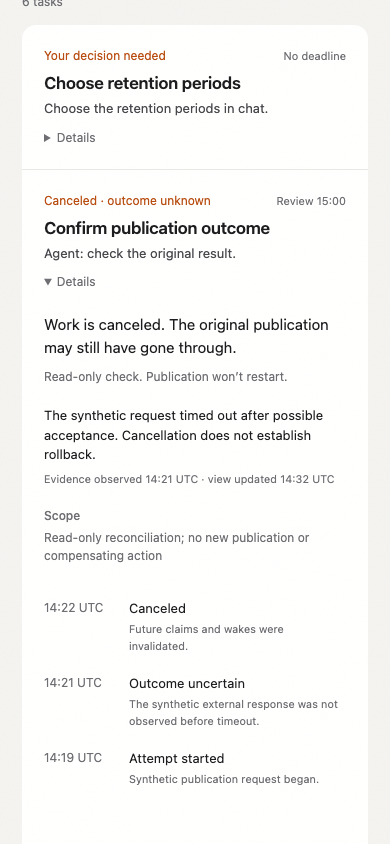
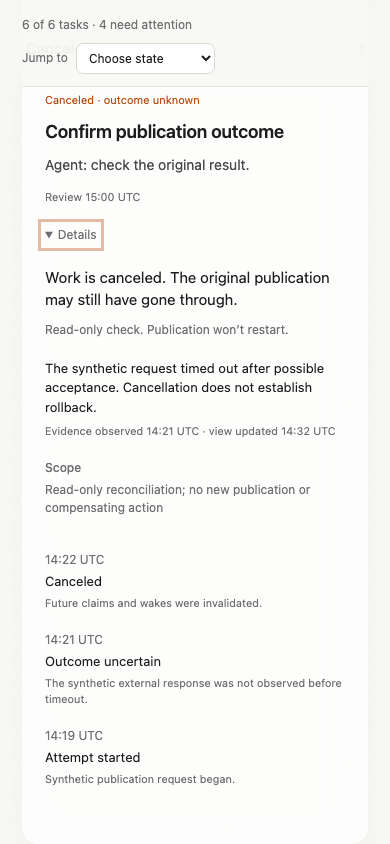
design: add textured white kanban preview

diff --git a/mockups/styles.css b/mockups/styles.css
@@ -1,6 +1,30 @@
 :root{color-scheme:light;--ink:#1d1d1f;--muted:#6e6e73;--accent:#b84e12;font-family:-apple-system,BlinkMacSystemFont,"Helvetica Neue",sans-serif}
 *{box-sizing:border-box}body{margin:0;background:#f5f5f7;color:var(--ink);font-size:15px;line-height:1.5}button,input{font:inherit}button{cursor:pointer;border:0;color:inherit}button:focus-visible,input:focus-visible,summary:focus-visible{outline:3px solid #b84e1260;outline-offset:4px}header{max-width:1160px;margin:auto;padding:34px 40px 20px;display:flex;align-items:center;gap:12px}.brand{font-size:21px;font-weight:650;letter-spacing:-.8px}.prototype-label{font-size:12px;color:var(--muted)}.freshness{margin-left:auto;font-size:12px;color:var(--muted)}.shell{max-width:1160px;margin:0 auto;padding:30px 40px 60px}.intro{margin-bottom:30px}.intro h1{font-size:38px;font-weight:600;letter-spacing:-1.5px;margin:0 0 5px}.intro p{margin:0;color:var(--muted)}.toolbar{display:flex;align-items:center;gap:16px;margin-bottom:24px;flex-wrap:wrap}.segments{display:flex;background:#e9e9ee;padding:3px;border-radius:10px;gap:2px}.segments button{background:transparent;padding:7px 15px;border-radius:8px;font-size:13px}.segments button[aria-pressed=true]{background:white;box-shadow:0 1px 4px #00000012}.search{margin-left:auto;width:180px;border:0;border-bottom:1px solid #d2d2d7;padding:7px 0;background:transparent;font-size:13px}.reset{padding:7px 0;background:transparent;color:var(--muted);font-size:13px}.layout{display:grid;grid-template-columns:1fr 1fr;gap:40px;align-items:start}.work-index{background:white;border-radius:18px;overflow:hidden}.list-heading{padding:20px 24px 10px;color:var(--muted);font-size:12px}.task-list{list-style:none;margin:0;padding:0 12px 12px}.task-row button{width:100%;padding:18px 12px;display:flex;text-align:left;align-items:center;gap:16px;background:transparent;border-radius:10px}.task-row button[aria-current=true]{background:#f5f5f7}.row-text{flex:1;min-width:0}.task-title{font-weight:550;font-size:15px}.task-status{color:var(--muted);font-size:13px;margin-top:4px}.task-status.attention{color:var(--accent)}.chevron{color:#a1a1a6;font-size:20px}.task-row+.task-row{border-top:1px solid #f0f0f3}.detail{padding:22px 4px;min-width:0}.eyebrow{color:var(--accent);font-size:12px;font-weight:600;margin-bottom:12px}.detail h2{font-size:28px;line-height:1.2;letter-spacing:-.8px;font-weight:600;margin:0 0 20px}.update{font-size:17px;line-height:1.55;margin:0 0 28px;max-width:440px}.next-label{font-size:12px;color:var(--muted);margin-bottom:5px}.next{font-size:15px;margin:0 0 24px}.human-note{font-size:12px;color:var(--muted);margin:0 0 30px}.disclosure{border-top:1px solid #dcdce1;padding:18px 0;margin-top:8px}.disclosure summary{cursor:pointer;font-size:13px;color:var(--muted);width:max-content}.facts{font-size:13px;margin:22px 0}.facts div{display:grid;grid-template-columns:115px 1fr;gap:12px;margin:12px 0}.facts dt{color:var(--muted)}.facts dd{margin:0}.evidence{font-size:13px;margin:20px 0}.evidence small{display:block;color:var(--muted);margin-top:6px}.history{list-style:none;padding:0;margin:24px 0}.history li{font-size:13px;display:grid;grid-template-columns:80px 1fr;gap:15px;padding:10px 0}.history time{color:var(--muted);font-size:12px}.history small{display:block;color:var(--muted);margin-top:3px}.empty{padding:24px;font-size:14px;color:var(--muted)}.footer-note{font-size:11px;color:var(--muted);margin-top:25px}.focus-view .layout{grid-template-columns:360px 1fr;gap:64px}.focus-view .work-index{background:transparent}.focus-view .list-heading{padding-left:12px}.focus-view .task-list{padding-left:0;padding-right:0}.focus-view .task-row button[aria-current=true]{background:#fff}.focus-view .detail{background:white;border-radius:18px;padding:32px}.focus-view .detail h2{font-size:32px}.focus-view .update{font-size:19px}.sr-only{position:absolute;width:1px;height:1px;overflow:hidden;clip:rect(0,0,0,0)}
-body[data-variant=a]{background-color:#f5f4f1;background-image:url("texture.svg")}
+body[data-variant=a]{background-color:#f8f8f5;background-image:url("texture.svg")}
+.kanban-view header,.kanban-view .shell{max-width:1680px}
+.kanban-view .intro h1{font-size:34px}
+.board-context{display:flex;align-items:center;gap:18px;margin-bottom:18px}
+.board-context .card-count{margin:0}
+.mobile-jump{display:none}
+.kanban-board{display:grid;grid-template-columns:repeat(6,minmax(0,1fr));gap:16px;align-items:start}
+.board-column{min-width:0}
+.column-heading{display:flex;align-items:baseline;justify-content:space-between;gap:8px;margin:0 4px 14px;min-height:42px}
+.column-heading h2{font-size:14px;font-weight:550;margin:0;scroll-margin-top:90px}
+.column-heading h2:focus-visible{outline:2px solid #b84e1260;outline-offset:4px}
+.column-heading span{font-size:12px;color:var(--muted)}
+.column-cards{list-style:none;margin:0;padding:0;display:grid;gap:12px}
+.kanban-view .action-card{padding:18px 16px;background:rgba(255,255,255,.72);border:1px solid rgba(255,255,255,.95);border-radius:18px;box-shadow:0 4px 20px #32322d08,inset 0 1px 0 #ffffff;backdrop-filter:blur(18px) saturate(1.05);-webkit-backdrop-filter:blur(18px) saturate(1.05)}
+.kanban-view .action-card h3{font-size:16px;font-weight:600;letter-spacing:-.2px;line-height:1.35;margin:12px 0 10px}
+.kanban-view .card-next{font-size:13px;line-height:1.5}
+.kanban-view .card-time{white-space:normal;margin:14px 0 0}
+.kanban-view .card-disclosure{margin-top:20px}
+.kanban-view .card-top .task-status{font-size:11px;line-height:1.4}
+.kanban-view .history li{grid-template-columns:1fr;gap:3px}
+.column-empty{font-size:12px;color:var(--muted);margin:0 4px;padding:14px 0;border-top:1px solid #deded8}
+@media(min-width:761px) and (max-width:1199px){.kanban-board{grid-template-columns:repeat(3,minmax(0,1fr));gap:28px 18px}}
+@media(max-width:760px){.kanban-view .intro h1{font-size:30px}.kanban-board{grid-template-columns:1fr;gap:28px}.column-heading{min-height:0;margin-bottom:10px}.column-heading h2{font-size:15px}.kanban-view .action-card{padding:22px}.kanban-view .action-card h3{font-size:18px}.kanban-view .card-next{font-size:14px}.board-context{position:sticky;top:0;z-index:4;display:block;background:#f8f8f5f5;padding:12px 0;border-bottom:1px solid #e5e4df}.mobile-jump{display:flex;align-items:center;gap:8px;margin-top:8px;color:var(--muted);font-size:12px}.mobile-jump select{font:inherit;color:var(--ink);padding:6px 8px;border:1px solid #d8d8d3;border-radius:7px;background:white}.mobile-jump select:focus-visible{outline:3px solid #b84e1260;outline-offset:2px}}
+@media(prefers-reduced-transparency:reduce){.kanban-view .action-card{background:#fff;backdrop-filter:none;-webkit-backdrop-filter:none}.kanban-view .board-context{background:#f8f8f5}}
+@supports not (backdrop-filter:blur(1px)){.kanban-view .action-card{background:#fff;-webkit-backdrop-filter:none}}
 .card-count{font-size:12px;color:var(--muted);margin-bottom:14px}
 .action-grid{display:block;padding:0;background:#ffffffed;border-radius:14px;overflow:hidden}
 .action-card{background:transparent;border:0;border-radius:0;padding:20px 24px;box-shadow:none;min-width:0}

diff --git a/mockups/app.js b/mockups/app.js
@@ -31,13 +31,19 @@ function renderDetail(task){
 function render(){
  const visible=visibleTasks();if(!visible.some(t=>t.id===selectedId))selectedId=visible[0]?.id;
   if(document.body.dataset.variant==="a"){
-    list.innerHTML=visible.map(task=>{
+    const states=["Queued","Running","Waiting externally","Blocked","Completed","Canceled"];
+    const slug=state=>state.toLowerCase().replaceAll(" ","-");
+    const card=task=>{
       const c=copy[task.id];
       const times={task_synth_104:"Overdue",task_synth_103:"No deadline",task_synth_101:"Due 14:14",task_synth_107:"Review 15:00",task_synth_105:"When available",task_synth_099:"Completed 13:18"};
-      return `<li class="action-card"><div class="card-top"><span class="task-status ${c.lens==="attention"?"attention":""}">${escape(c.status)}</span><span class="card-time">${times[task.id]}</span></div><h2>${escape(c.title)}</h2><p class="card-next">${escape(c.next)}</p><details class="card-disclosure"><summary>Details</summary><p class="card-update">${escape(c.update)}</p><p class="human-note">${escape(c.note)}</p><div class="evidence">${escape(task.evidence)}<small>Evidence observed ${escape(task.observedAt)} · view updated 14:32 UTC</small></div><p class="card-scope"><strong>Scope</strong> ${escape(task.scope)}</p><ol class="history" aria-label="Task history">${task.chronology.map(entry=>`<li><time>${escape(entry[0])}</time><div>${escape(entry[1])}<small>${escape(entry[2])}</small></div></li>`).join("")}</ol></details></li>`;
+      return `<li class="action-card"><div class="card-top"><span class="task-status ${c.lens==="attention"?"attention":""}">${escape(c.status)}</span></div><h3>${escape(c.title)}</h3><p class="card-next">${escape(c.next)}</p><p class="card-time">${times[task.id]}${times[task.id].match(/[0-9]/)?" UTC":""}</p><details class="card-disclosure"><summary>Details<span class="sr-only"> for ${escape(c.title)}</span></summary><p class="card-update">${escape(c.update)}</p><p class="human-note">${escape(c.note)}</p><div class="evidence">${escape(task.evidence)}<small>Evidence observed ${escape(task.observedAt)} · view updated 14:32 UTC</small></div><p class="card-scope"><strong>Scope</strong> ${escape(task.scope)}</p><ol class="history" aria-label="Task history">${task.chronology.map(entry=>`<li><time>${escape(entry[0])}</time><div>${escape(entry[1])}<small>${escape(entry[2])}</small></div></li>`).join("")}</ol></details></li>`;
+    };
+    list.innerHTML=states.map(state=>{
+      const members=visible.filter(task=>task.state===state);
+      return `<section class="board-column" id="column-${slug(state)}" aria-labelledby="heading-${slug(state)}"><div class="column-heading"><h2 id="heading-${slug(state)}" tabindex="-1">${state}</h2><span aria-label="${members.length} tasks">${members.length}</span></div><ol class="column-cards">${members.map(card).join("")}</ol>${members.length?"":'<p class="column-empty">No tasks in this view</p>'}</section>`;
     }).join("");
     document.querySelector("#empty").hidden=visible.length>0;
-    document.querySelector("#active-scope").textContent=`${visible.length} ${lens==="all"?"tasks":lens==="attention"?"need attention":"waiting"}${search.value.trim()?" · search results":""}`;
+    document.querySelector("#active-scope").textContent=`${visible.length} of ${tasks.length} tasks · ${visible.filter(task=>copy[task.id].lens==="attention").length} need attention${search.value.trim()?" · search results":""}`;
     document.querySelectorAll("[data-lens]").forEach(b=>b.setAttribute("aria-pressed",String(b.dataset.lens===lens)));
     return;
   }
@@ -51,4 +57,8 @@ function render(){
 document.querySelectorAll("[data-lens]").forEach(b=>b.addEventListener("click",()=>{lens=b.dataset.lens;render();}));
 search.addEventListener("input",render);
 document.querySelector("#reset").addEventListener("click",()=>{lens=document.body.dataset.variant==="b"?"attention":"all";search.value="";render();search.focus();});
+document.querySelector("#state-jump")?.addEventListener("change",event=>{
+  const target=document.querySelector("#heading-"+event.target.value);
+  if(target){target.scrollIntoView({block:"start"});target.focus({preventScroll:true});}
+});
 render();

diff --git a/mockups/variant-a-ledger.html b/mockups/variant-a-ledger.html
@@ -1,10 +1,11 @@
 <!doctype html>
 <html lang="en">
-<head><meta charset="utf-8"><meta name="viewport" content="width=device-width, initial-scale=1"><title>flipp — Work</title><link rel="stylesheet" href="styles.css"></head>
-<body data-variant="a" class="">
-<header><span class="brand">flipp</span><span class="prototype-label">Design A</span><span class="freshness">Updated 14:32</span></header>
-<main class="shell"><div class="intro"><h1>Your work, quietly moving.</h1><p>A clear view of what’s happening.</p></div>
+<head><meta charset="utf-8"><meta name="viewport" content="width=device-width, initial-scale=1"><title>flipp — Work board</title><link rel="stylesheet" href="styles.css"></head>
+<body data-variant="a" class="kanban-view">
+<header><span class="brand">flipp</span><span class="prototype-label">Kanban prototype</span><span class="freshness">View updated 14:32 UTC</span></header>
+<main class="shell"><div class="intro"><h1>Your work, at a glance.</h1><p>A quiet board. Every task in its actual state.</p></div>
 <section class="toolbar" aria-label="Work filters"><div class="segments" aria-label="View"><button type="button" data-lens="all">All work</button><button type="button" data-lens="attention">Attention</button><button type="button" data-lens="waiting">Waiting</button></div><label class="sr-only" for="search">Search tasks</label><input class="search" id="search" type="search" placeholder="Search" autocomplete="off"><button class="reset" id="reset" type="button">Reset</button></section>
-<div class="card-layout"><section aria-label="Tasks"><div class="card-count" id="active-scope" aria-live="polite"></div><ol class="task-list action-grid" id="task-list"></ol><p class="empty" id="empty" hidden>No matches. Try another view or reset.</p></section></div>
+<div class="board-context"><span class="card-count" id="active-scope" aria-live="polite"></span><label class="mobile-jump">Jump to <select id="state-jump"><option value="">Choose state</option><option value="queued">Queued</option><option value="running">Running</option><option value="waiting-externally">Waiting externally</option><option value="blocked">Blocked</option><option value="completed">Completed</option><option value="canceled">Canceled</option></select></label></div>
+<section class="kanban-board" id="task-list" aria-label="Work by canonical state"></section><p class="empty" id="empty" hidden>No matches. Try another view or reset.</p>
 <p class="footer-note">Static prototype · synthetic data</p></main><script src="data.js"></script><script src="app.js"></script>
 </body></html>

diff --git a/mockups/README.md b/mockups/README.md
@@ -2,7 +2,7 @@
 
 These static prototypes compare two read-only interface directions using the same synthetic task data:
 
-- [Variant A: action list](variant-a-ledger.html) — the selected direction: compact rows in one continuous list, with explanation and evidence in Details.
+- [Variant A: kanban board](variant-a-ledger.html) — the selected direction: six canonical state columns with textured-white styling and restrained frosted-glass cards. Details expands explanation and evidence.
 - [Variant B: attention](variant-b-attention.html) — a comparison direction with a short queue and selected update.
 
 The human surface shows only the information needed to understand work and its next step. [The synthetic agent payload example](agent-payload.example.json) retains coordination fields for an authorized agent query. Hidden UI is not access control: a real implementation must keep that payload server-side and enforce owner-scoped authorization.
@@ -17,3 +17,7 @@ They are design artifacts only. They are not connected to the ledger, authentica
 | B · Attention + chronology | [PNG](screenshots/variant-b-desktop.png) | [PNG](screenshots/variant-b-mobile.png) | [PNG](screenshots/variant-b-mobile-detail.png) |
 
 The data and timestamps are synthetic and fixed so layout reviews are reproducible.
+
+Variant A supersedes the prior continuous-list baseline. On mobile, columns stack with a keyboard-accessible state jump. Cards are not draggable; filter/search/reset/navigation/Details are presentation-only. Blocked and Canceled remain separate columns, and uncertainty stays on the card face. Reduced transparency and unsupported blur use solid-white cards.
+
+Additional board review states: [desktop Details](screenshots/variant-a-desktop-detail.png) · [attention filter](screenshots/variant-a-attention.png).
